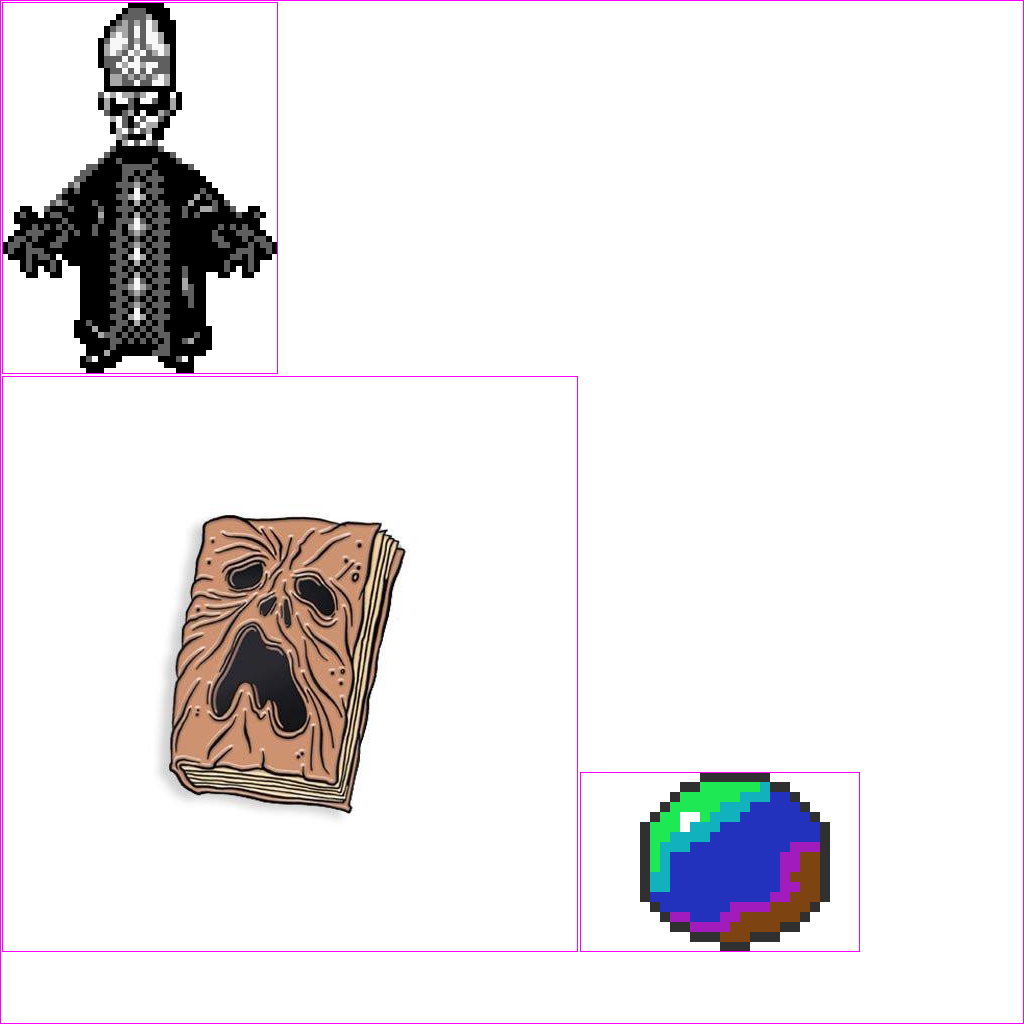
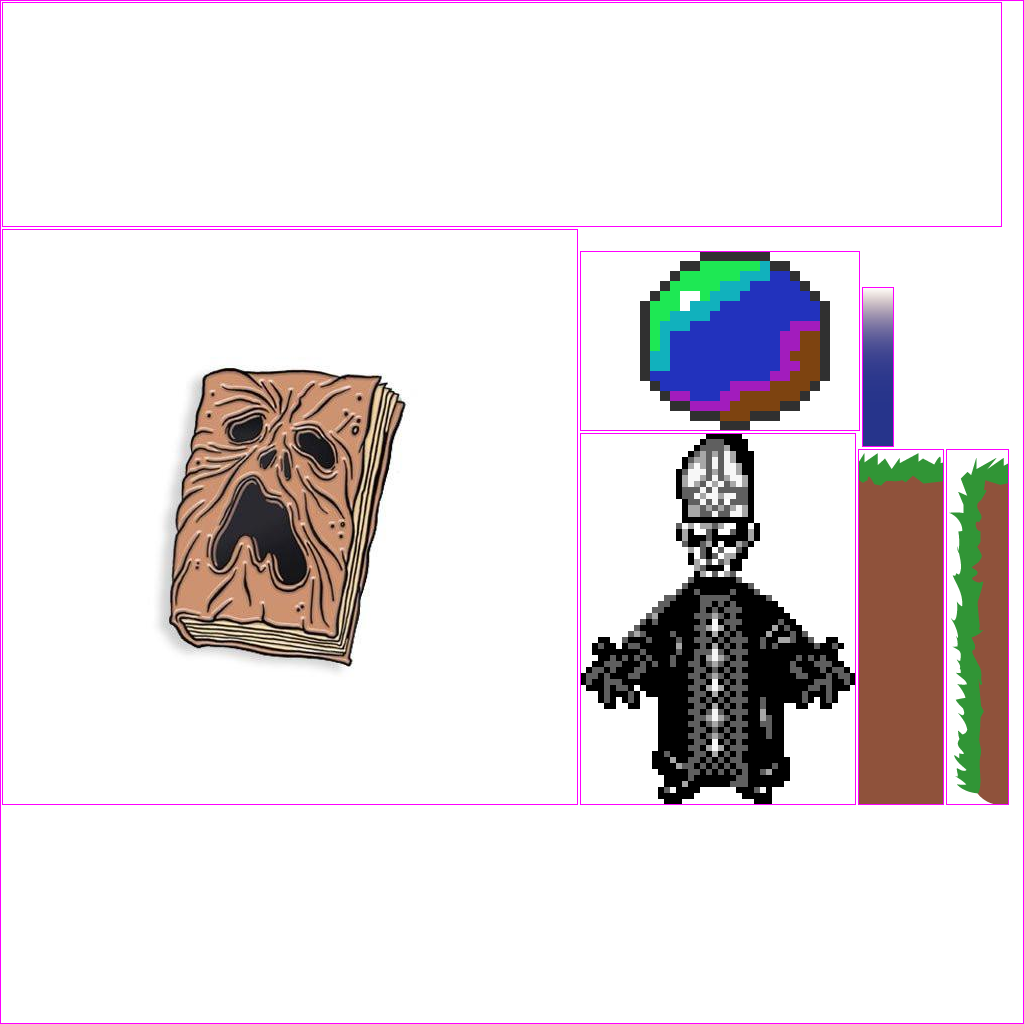
Misc Fixes

Changed region(s): [[0.5625, 0.2188, 1.0, 0.9375], [0.0, 0.0, 0.4062, 0.8125]]

diff --git a/core/src/gameWorld/Assets.java b/core/src/gameWorld/Assets.java
@@ -68,7 +68,7 @@ public class Assets implements Disposable, AssetErrorListener {
 	   public final AtlasRegion character;
 	   
 	   public AssetCharacter(TextureAtlas atlas){
-		   character =atlas.findRegion("character");
+		   character =atlas.findRegion("Papa_Game");
 	   }
    }
 	
@@ -85,14 +85,14 @@ public class Assets implements Disposable, AssetErrorListener {
 		public final AtlasRegion currency;
 		
 		public AssetCurrency(TextureAtlas atlas){
-			currency = atlas.findRegion("currency");
+			currency = atlas.findRegion("Souls_Game");
 		}
 	}
 		public class AssetBookOfPain{
 			public final AtlasRegion book;
 			
 			public AssetBookOfPain(TextureAtlas atlas){
-				book = atlas.findRegion("book");
+				book = atlas.findRegion("Book_of_Pain");
 			}
 		}
 	
@@ -131,9 +131,9 @@ public class Assets implements Disposable, AssetErrorListener {
 		defaultBig = new BitmapFont(
 		  Gdx.files.internal("images/arial-15.fnt"), true);
 		// set font sizes
-		defaultSmall.setScale(0.75f);
-		defaultNormal.setScale(1.0f);
-		defaultBig.setScale(2.0f);
+		defaultSmall.getData().setScale(0.75f);
+		defaultNormal.getData().setScale(1.0f);
+		defaultBig.getData().setScale(2.0f);
 		// enable linear texture filtering for smooth fonts
 		defaultSmall.getRegion().getTexture().setFilter(
 		  TextureFilter.Linear, TextureFilter.Linear);

diff --git a/core/src/utils/CameraHelper.java b/core/src/utils/CameraHelper.java
@@ -39,7 +39,7 @@ public class CameraHelper {
    /**
     * return target
     */
-   public AbsractGameObject getTarget(){
+   public AbstractGameObject getTarget(){
 	   return target;
    }
    /**
@@ -73,23 +73,13 @@ public class CameraHelper {
       * @return zoom
       */
      public float getZoom () { return zoom; }
-     /**
-      * set the target to
-      * @param target
-      */
-     public void setTarget (Sprite target) { this.target = target; }
-     /**
-      * @return target
-      */
-     public Sprite getTarget () { return target; }
+    
      /**
       * checker if cam has target
       * @return boolean
       */
      public boolean hasTarget () { return target != null; }
-     public boolean hasTarget (Sprite target) {
-         return hasTarget() && this.target.equals(target);
-     }
+    
      /**
       * apply changes to the
       * @param camera

diff --git a/core/src/gameWorld/Level.java b/core/src/gameWorld/Level.java
@@ -13,6 +13,7 @@ AbstractGameObject;
 
 import gameObjects.Mountains;
 import gameObjects.Rock;
+import gameObjects.WaterOverlay;
 //import gameObjects.WaterOverlay;
 public class Level {
   public static final String TAG = Level.class.getName();
@@ -26,7 +27,7 @@ public class Level {
   
   private int color;
    private BLOCK_TYPE(int r, int g, int b) {
-	   color = r<<24|g<<1|b<<8| 0xff;
+	   color = r<<24|g<<16|b<<8| 0xff;
    }
    
    public boolean sameColor(int color) {
@@ -120,11 +121,11 @@ public class Level {
    
    public void render(SpriteBatch batch) {
 	   //Draw mts
-	   mountains.redner(batch);
+	   mountains.render(batch);
 	   //Draw Rocks
 	   for(Rock rock : rocks)
 		   rock.render(batch);
 	   //Draw water overlay
-	   waterOverlay.render(batch);
+	  waterOverlay.render(batch);
    }
 }

diff --git a/core/src/gameWorld/WorldRenderer.java b/core/src/gameWorld/WorldRenderer.java
@@ -40,7 +40,7 @@ public class WorldRenderer implements Disposable{
 	 */
 	public void render() {
 		renderWorld(batch);
-		renderGUI(batch);
+		renderGui(batch);
 	}
 	/**
 	 * Render the world,
